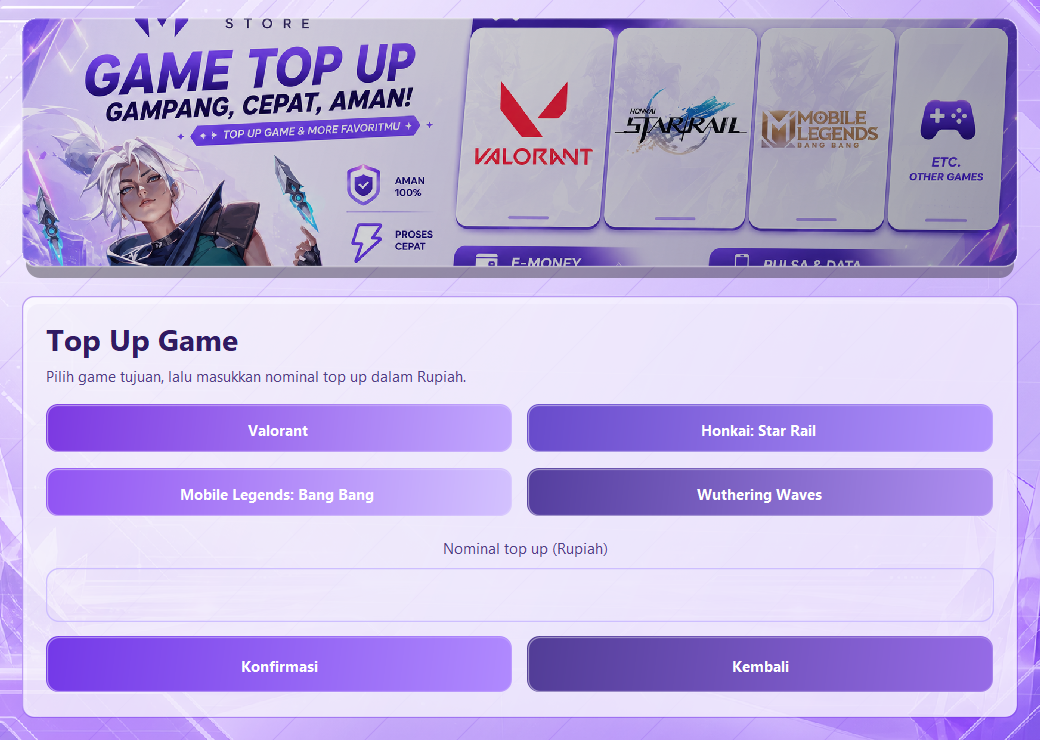
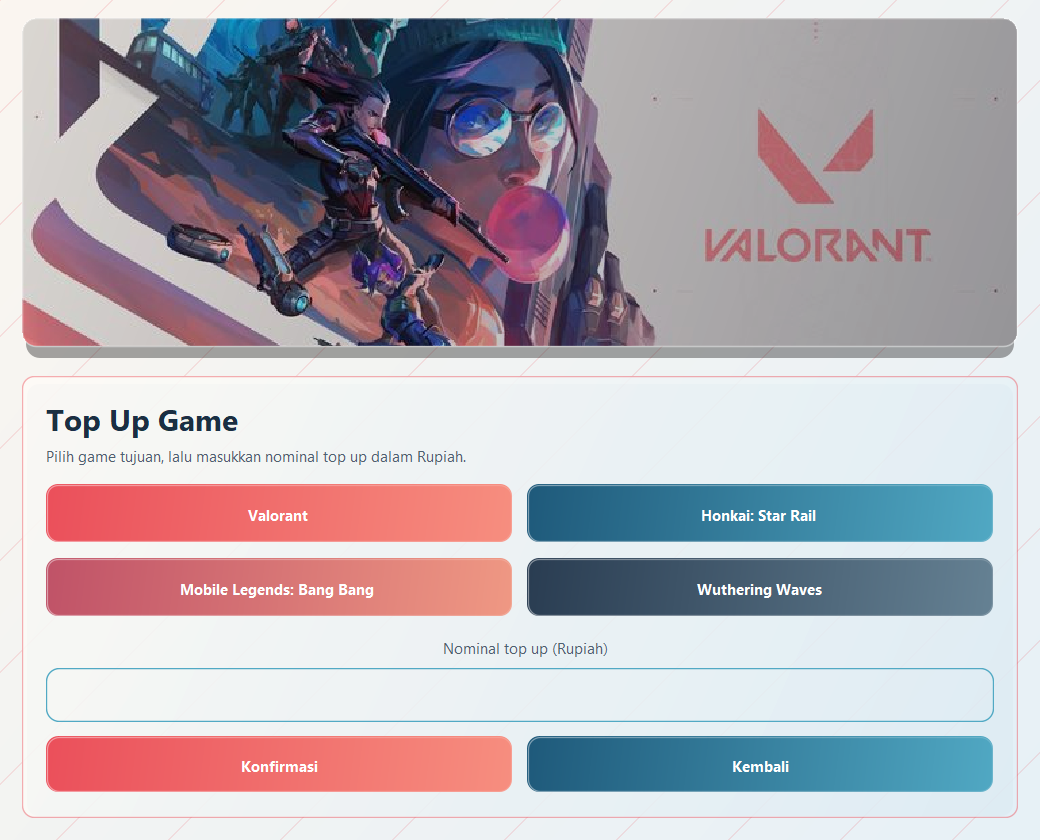
minor UI change and README update

diff --git a/src/FuturisticUI.java b/src/FuturisticUI.java
@@ -1,3 +1,12 @@
+/*
+ * Click nbfs://nbhost/SystemFileSystem/Templates/Licenses/license-default.txt to change this license
+ * Click nbfs://nbhost/SystemFileSystem/Templates/Classes/Class.java to edit this template
+ */
+
+/**
+ *
+ * @author Zennova
+ */
 import java.awt.AlphaComposite;
 import java.awt.BasicStroke;
 import java.awt.Color;
@@ -31,6 +40,7 @@ import javax.swing.plaf.basic.BasicButtonUI;
 final class FuturisticUI {
 
     static final Color PAGE_DARK = new Color(48, 27, 98);
+    static final Color PAGE_LIGHT = new Color(250, 248, 255);
     static final Color GLASS_DARK = new Color(244, 239, 255, 218);
     static final Color GLASS_LIGHT = new Color(255, 255, 255, 186);
     static final Color CYAN = new Color(205, 190, 255);
@@ -52,8 +62,12 @@ final class FuturisticUI {
         frame.setLocationRelativeTo(null);
     }
 
-    static BackgroundPanel background(String resource) {
-        return new BackgroundPanel(resource);
+    static BackgroundPanel background() {
+        return new BackgroundPanel(PAGE_LIGHT, PAGE_LIGHT, null);
+    }
+
+    static BackgroundPanel background(Color start, Color end, Color accent) {
+        return new BackgroundPanel(start, end, accent);
     }
 
     static BannerPanel banner(String resource, int height) {
@@ -64,7 +78,17 @@ final class FuturisticUI {
     }
 
     static GlassPanel glass(LayoutManager layout) {
-        return new GlassPanel(layout);
+        return new GlassPanel(
+            layout,
+            new Color(94, 50, 176, 42),
+            GLASS_LIGHT,
+            GLASS_DARK,
+            new Color(116, 57, 232, 118)
+        );
+    }
+
+    static GlassPanel glass(LayoutManager layout, Color shadow, Color start, Color end, Color border) {
+        return new GlassPanel(layout, shadow, start, end, border);
     }
 
     static JLabel title(JLabel label, String text, int size) {
@@ -94,13 +118,17 @@ final class FuturisticUI {
     }
 
     static void styleTextField(JTextField field) {
+        styleTextField(field, PAGE_DARK, VIOLET, CYAN);
+    }
+
+    static void styleTextField(JTextField field, Color text, Color accent, Color border) {
         field.setFont(new Font(FONT, Font.BOLD, 18));
-        field.setForeground(PAGE_DARK);
-        field.setCaretColor(VIOLET);
+        field.setForeground(text);
+        field.setCaretColor(accent);
         field.setSelectedTextColor(WHITE);
-        field.setSelectionColor(VIOLET);
+        field.setSelectionColor(accent);
         field.setOpaque(false);
-        field.setBorder(new RoundedBorder(CYAN, new Insets(12, 16, 12, 16), 16));
+        field.setBorder(new RoundedBorder(border, new Insets(12, 16, 12, 16), 16));
     }
 
     private static void styleButtonBase(AbstractButton button, Color start, Color end, int radius) {
@@ -142,41 +170,32 @@ final class FuturisticUI {
 
     static final class BackgroundPanel extends JPanel {
 
-        private final Image image;
+        private final Color start;
+        private final Color end;
+        private final Color accent;
 
-        BackgroundPanel(String resource) {
-            this.image = loadImage(resource);
-            setOpaque(false);
+        BackgroundPanel(Color start, Color end, Color accent) {
+            this.start = start;
+            this.end = end;
+            this.accent = accent;
+            setBackground(start);
+            setOpaque(true);
         }
 
         @Override
         protected void paintComponent(Graphics graphics) {
-            Graphics2D g2 = (Graphics2D) graphics.create();
-            g2.setRenderingHint(RenderingHints.KEY_ANTIALIASING, RenderingHints.VALUE_ANTIALIAS_ON);
-
-            if (image != null) {
-                drawCover(g2, image, getWidth(), getHeight(), 0.5, 0.35);
-            } else {
-                g2.setPaint(new GradientPaint(0, 0, WHITE, getWidth(), getHeight(), new Color(217, 196, 255)));
-                g2.fillRect(0, 0, getWidth(), getHeight());
-            }
-
-            g2.setPaint(new GradientPaint(0, 0, new Color(255, 255, 255, 172), getWidth(), getHeight(), new Color(138, 79, 255, 86)));
-            g2.fillRect(0, 0, getWidth(), getHeight());
-
-            g2.setComposite(AlphaComposite.SrcOver.derive(0.16f));
-            g2.setColor(VIOLET);
-            for (int x = -getHeight(); x < getWidth(); x += 92) {
-                g2.drawLine(x, getHeight(), x + getHeight(), 0);
-            }
-            g2.setComposite(AlphaComposite.SrcOver.derive(0.18f));
-            g2.setColor(new Color(255, 255, 255));
-            for (int y = 48; y < getHeight(); y += 78) {
-                g2.drawLine(0, y, getWidth(), y + 22);
-            }
-
-            g2.dispose();
             super.paintComponent(graphics);
+            Graphics2D g2 = (Graphics2D) graphics.create();
+            g2.setPaint(new GradientPaint(0, 0, start, getWidth(), getHeight(), end));
+            g2.fillRect(0, 0, getWidth(), getHeight());
+            if (accent != null) {
+                g2.setComposite(AlphaComposite.SrcOver.derive(0.14f));
+                g2.setColor(accent);
+                for (int x = -getHeight(); x < getWidth(); x += 112) {
+                    g2.drawLine(x, getHeight(), x + getHeight(), 0);
+                }
+            }
+            g2.dispose();
         }
     }
 
@@ -205,7 +224,7 @@ final class FuturisticUI {
             g2.setPaint(new GradientPaint(0, 0, new Color(49, 25, 113), width, height, new Color(9, 198, 219)));
             g2.fillRect(0, 0, width, height);
             if (image != null) {
-                drawCover(g2, image, width, Math.max(1, height - 12), 0.5, 0.22);
+                drawCover(g2, image, width, Math.max(1, height - 12), 0.5, 0.44);
             }
             g2.setPaint(new GradientPaint(0, 0, new Color(4, 8, 28, 20), width, height, new Color(4, 8, 28, 96)));
             g2.fillRect(0, 0, width, height);
@@ -221,8 +240,17 @@ final class FuturisticUI {
 
     static final class GlassPanel extends JPanel {
 
-        GlassPanel(LayoutManager layout) {
+        private final Color shadow;
+        private final Color start;
+        private final Color end;
+        private final Color border;
+
+        GlassPanel(LayoutManager layout, Color shadow, Color start, Color end, Color border) {
             super(layout);
+            this.shadow = shadow;
+            this.start = start;
+            this.end = end;
+            this.border = border;
             setOpaque(false);
             setBorder(new EmptyBorder(22, 24, 24, 24));
         }
@@ -234,14 +262,14 @@ final class FuturisticUI {
             int width = getWidth();
             int height = getHeight();
 
-            g2.setColor(new Color(94, 50, 176, 42));
+            g2.setColor(shadow);
             g2.fillRoundRect(5, 8, Math.max(0, width - 10), Math.max(0, height - 10), 24, 24);
 
-            g2.setPaint(new GradientPaint(0, 0, GLASS_LIGHT, width, height, GLASS_DARK));
+            g2.setPaint(new GradientPaint(0, 0, start, width, height, end));
             g2.fillRoundRect(0, 0, Math.max(0, width - 1), Math.max(0, height - 1), 24, 24);
 
             g2.setStroke(new BasicStroke(1.4f));
-            g2.setColor(new Color(116, 57, 232, 118));
+            g2.setColor(border);
             g2.drawRoundRect(0, 0, Math.max(0, width - 1), Math.max(0, height - 1), 24, 24);
 
             g2.dispose();

diff --git a/src/TopUpWindow.java b/src/TopUpWindow.java
@@ -18,6 +18,14 @@ import javax.swing.border.EmptyBorder;
 public class TopUpWindow extends javax.swing.JFrame {
     
     private static final java.util.logging.Logger logger = java.util.logging.Logger.getLogger(TopUpWindow.class.getName());
+    private static final Color GAME_BG_START = new Color(251, 246, 240);
+    private static final Color GAME_BG_END = new Color(231, 241, 247);
+    private static final Color GAME_INK = new Color(26, 47, 66);
+    private static final Color GAME_MUTED = new Color(81, 95, 111);
+    private static final Color GAME_CORAL = new Color(235, 80, 91);
+    private static final Color GAME_SALMON = new Color(247, 143, 128);
+    private static final Color GAME_BLUE = new Color(31, 90, 123);
+    private static final Color GAME_CYAN = new Color(81, 169, 196);
 
     /**
      * Creates new form TopUpWindow
@@ -263,21 +271,29 @@ public class TopUpWindow extends javax.swing.JFrame {
     }//GEN-LAST:event_backButtonActionPerformed
 
     private void applyFuturisticLayout() {
-        FuturisticUI.BackgroundPanel root = FuturisticUI.background("/assets/bgGameViolet.png");
+        FuturisticUI.BackgroundPanel root = FuturisticUI.background(GAME_BG_START, GAME_BG_END, GAME_CORAL);
         root.setLayout(new BorderLayout(0, 18));
         root.setBorder(new EmptyBorder(18, 22, 22, 22));
 
-        root.add(FuturisticUI.banner("/assets/bannerMain.png", 260), BorderLayout.NORTH);
+        root.add(FuturisticUI.banner("/assets/bgGame.jpg", 340), BorderLayout.NORTH);
 
-        FuturisticUI.GlassPanel panel = FuturisticUI.glass(new BorderLayout(18, 18));
+        FuturisticUI.GlassPanel panel = FuturisticUI.glass(
+            new BorderLayout(18, 18),
+            new Color(31, 90, 123, 38),
+            new Color(255, 252, 247, 226),
+            new Color(226, 240, 247, 214),
+            new Color(235, 80, 91, 116)
+        );
 
         JPanel header = new JPanel();
         header.setOpaque(false);
         header.setLayout(new BoxLayout(header, BoxLayout.Y_AXIS));
 
         FuturisticUI.title(jLabel1, "Top Up Game", 30);
+        jLabel1.setForeground(GAME_INK);
         jLabel1.setAlignmentX(java.awt.Component.LEFT_ALIGNMENT);
         FuturisticUI.body(jLabel2, "Pilih game tujuan, lalu masukkan nominal top up dalam Rupiah.", 15);
+        jLabel2.setForeground(GAME_MUTED);
         jLabel2.setAlignmentX(java.awt.Component.LEFT_ALIGNMENT);
 
         header.add(jLabel1);
@@ -287,10 +303,10 @@ public class TopUpWindow extends javax.swing.JFrame {
         JPanel gameGrid = new JPanel(new GridLayout(2, 2, 14, 14));
         gameGrid.setOpaque(false);
 
-        FuturisticUI.styleToggleButton(valorantButton, new Color(124, 57, 226), new Color(196, 170, 255));
-        FuturisticUI.styleToggleButton(hsrButton, new Color(104, 75, 203), new Color(180, 149, 255));
-        FuturisticUI.styleToggleButton(mlbbButton, new Color(145, 84, 243), new Color(212, 195, 255));
-        FuturisticUI.styleToggleButton(wuwaButton, new Color(84, 62, 158), new Color(177, 145, 244));
+        FuturisticUI.styleToggleButton(valorantButton, GAME_CORAL, GAME_SALMON);
+        FuturisticUI.styleToggleButton(hsrButton, GAME_BLUE, GAME_CYAN);
+        FuturisticUI.styleToggleButton(mlbbButton, new Color(192, 83, 104), new Color(240, 153, 132));
+        FuturisticUI.styleToggleButton(wuwaButton, new Color(42, 61, 82), new Color(102, 130, 148));
 
         gameGrid.add(valorantButton);
         gameGrid.add(hsrButton);
@@ -302,15 +318,16 @@ public class TopUpWindow extends javax.swing.JFrame {
         formStack.setLayout(new BoxLayout(formStack, BoxLayout.Y_AXIS));
 
         FuturisticUI.body(jLabel3, "Nominal top up (Rupiah)", 15);
+        jLabel3.setForeground(GAME_MUTED);
         jLabel3.setAlignmentX(java.awt.Component.LEFT_ALIGNMENT);
-        FuturisticUI.styleTextField(jTextField1);
+        FuturisticUI.styleTextField(jTextField1, GAME_INK, GAME_CORAL, new Color(81, 169, 196));
         jTextField1.setMaximumSize(new java.awt.Dimension(Integer.MAX_VALUE, 54));
         jTextField1.setPreferredSize(new java.awt.Dimension(10, 54));
 
         JPanel actions = new JPanel(new GridLayout(1, 2, 14, 0));
         actions.setOpaque(false);
-        FuturisticUI.styleCommandButton(confirmButton, FuturisticUI.VIOLET, new Color(177, 139, 255));
-        FuturisticUI.styleCommandButton(backButton, new Color(82, 61, 151), new Color(151, 108, 232));
+        FuturisticUI.styleCommandButton(confirmButton, GAME_CORAL, GAME_SALMON);
+        FuturisticUI.styleCommandButton(backButton, GAME_BLUE, GAME_CYAN);
         actions.add(confirmButton);
         actions.add(backButton);
 
@@ -326,7 +343,7 @@ public class TopUpWindow extends javax.swing.JFrame {
 
         root.add(panel, BorderLayout.CENTER);
         setContentPane(root);
-        FuturisticUI.prepareFrame(this, "Mambo Store - Top Up Game", 1040, 740);
+        FuturisticUI.prepareFrame(this, "Mambo Store - Top Up Game", 1040, 840);
         revalidate();
         repaint();
     }

diff --git a/src/MainWindow.java b/src/MainWindow.java
@@ -118,11 +118,11 @@ public class MainWindow extends javax.swing.JFrame {
     }//GEN-LAST:event_gameButtonActionPerformed
 
     private void applyFuturisticLayout() {
-        FuturisticUI.BackgroundPanel root = FuturisticUI.background("/assets/bannerMain.png");
+        FuturisticUI.BackgroundPanel root = FuturisticUI.background();
         root.setLayout(new BorderLayout(0, 18));
         root.setBorder(new EmptyBorder(20, 24, 24, 24));
 
-        FuturisticUI.BannerPanel hero = FuturisticUI.banner("/assets/bannerMain.png", 350);
+        FuturisticUI.BannerPanel hero = FuturisticUI.banner("/assets/bannerMain.png", 390);
         root.add(hero, BorderLayout.NORTH);
 
         FuturisticUI.GlassPanel menuPanel = FuturisticUI.glass(new BorderLayout(18, 18));
@@ -166,7 +166,7 @@ public class MainWindow extends javax.swing.JFrame {
 
         root.add(menuPanel, BorderLayout.CENTER);
         setContentPane(root);
-        FuturisticUI.prepareFrame(this, "Mambo Store", 1060, 720);
+        FuturisticUI.prepareFrame(this, "Mambo Store", 1060, 780);
         revalidate();
         repaint();
     }

diff --git a/src/PulsaWindow.java b/src/PulsaWindow.java
@@ -324,11 +324,11 @@ public class PulsaWindow extends javax.swing.JFrame {
     }
 
     private void applyFuturisticLayout() {
-        FuturisticUI.BackgroundPanel root = FuturisticUI.background("/assets/bannerPulsa.png");
+        FuturisticUI.BackgroundPanel root = FuturisticUI.background();
         root.setLayout(new BorderLayout(0, 18));
         root.setBorder(new EmptyBorder(18, 22, 22, 22));
 
-        root.add(FuturisticUI.banner("/assets/bannerPulsa.png", 230), BorderLayout.NORTH);
+        root.add(FuturisticUI.banner("/assets/bannerPulsa.png", 360), BorderLayout.NORTH);
 
         FuturisticUI.GlassPanel panel = FuturisticUI.glass(new BorderLayout(18, 18));
 
@@ -405,7 +405,7 @@ public class PulsaWindow extends javax.swing.JFrame {
 
         root.add(panel, BorderLayout.CENTER);
         setContentPane(root);
-        FuturisticUI.prepareFrame(this, "Mambo Store - Pulsa & E-Money", 1040, 780);
+        FuturisticUI.prepareFrame(this, "Mambo Store - Pulsa & E-Money", 1040, 860);
         revalidate();
         repaint();
     }

diff --git a/src/PaymentDialog.java b/src/PaymentDialog.java
@@ -60,6 +60,7 @@ public class PaymentDialog {
             ImageIcon qrIcon = generateQR(qrContent, 250);
 
             JPanel panel = new JPanel(new BorderLayout(10, 10));
+            panel.setBackground(FuturisticUI.PAGE_LIGHT);
 
             JLabel infoLabel = new JLabel(
                 "<html><center>" +
@@ -106,6 +107,7 @@ public class PaymentDialog {
             vaNumber = vaNumber.substring(0, 16);
 
             JPanel panel = new JPanel();
+            panel.setBackground(FuturisticUI.PAGE_LIGHT);
             panel.setLayout(new BoxLayout(panel, BoxLayout.Y_AXIS));
 
             JLabel info = new JLabel(

diff --git a/README.md b/README.md
@@ -1,6 +1,6 @@
 # Mambo Store - Java GUI Top Up
 
-Mambo Store adalah aplikasi Java Swing untuk simulasi top up game, pulsa, dan e-money. Project ini dibuat sebagai tugas GUI Java dengan tampilan violet-white futuristik, banner visual di setiap halaman utama, validasi nominal, dan dialog pembayaran QRIS atau Virtual Account.
+Mambo Store adalah aplikasi Java Swing untuk simulasi top up game, pulsa, dan e-money. Project ini dibuat sebagai tugas GUI Java dengan background putih-violet yang bersih, banner visual besar di setiap halaman utama, validasi nominal, dan dialog pembayaran QRIS atau Virtual Account.
 
 ## Fitur
 
@@ -13,15 +13,24 @@ Mambo Store adalah aplikasi Java Swing untuk simulasi top up game, pulsa, dan e-
 - Dialog pembayaran dengan pilihan QRIS atau Virtual Account.
 - Generate QR Code pembayaran memakai library ZXing.
 
+## Tampilan GUI Terbaru
+
+Main Window dan Pulsa & E-Money Window memakai background polos light violet/white agar konten lebih rapi dan banner lebih menonjol. Top Up Game Window memakai theme cream, coral, dan biru yang mengikuti warna `bgGame.jpg`.
+
+- Main Window memakai banner `src/assets/bannerMain.png`.
+- Top Up Game Window memakai banner `src/assets/bgGame.jpg` dengan warna tombol dan panel yang selaras dengan banner.
+- Pulsa & E-Money Window memakai banner `src/assets/bannerPulsa.png`.
+- Area banner dibuat lebih besar supaya gambar terlihat lebih proporsional di setiap window.
+
 ## Screenshot
 
 ### Main Window
 
 ![Main Window](docs/screenshots/main-window.png)
 
-### Top Up Game Window
+### Top Up Game Window - bgGame Theme
 
-![Top Up Game Window](docs/screenshots/game-topup-window.png)
+![Top Up Game Window bgGame Theme](docs/screenshots/game-topup-window.png)
 
 ### Pulsa & E-Money Window
 
